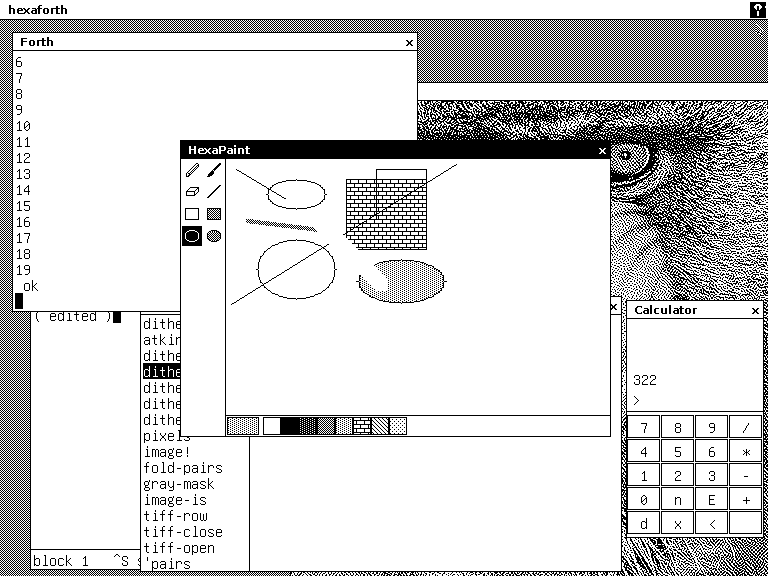
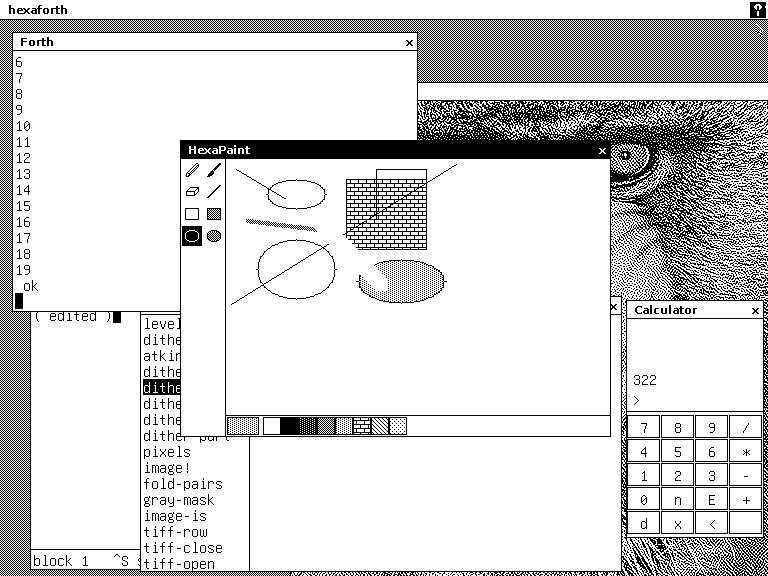
Address review: end-press, no-windows, MAX-WINS, new-port, close on release, ROM_BYTES and agent-check

Changed region(s): [[0.1875, 0.75, 0.2812, 1.0], [0.1875, 0.5625, 0.25, 0.6875]]

diff --git a/test/deskcheck.c b/test/deskcheck.c
@@ -66,6 +66,7 @@ static bool came_up(char* why), saved(char* why), dithered(char* why), moved(cha
 static bool fused_told(char* why), a_number(char* why), word_told(char* why), box_gone(char* why);
 static bool one_cursor(char* why), prints_behind(char* why), keep(char* why), others_same(char* why);
 static bool remember(char* why);
+static bool last_dragged(char* why);
 static bool sees_all(char* why), memory(char* why), menu_down(char* why), line_shown(char* why);
 static bool calc_picked(char* why), words_held(char* why), menu_whole(char* why), menu_away(char* why);
 static bool menu_gone(char* why), forth_closed(char* why), words_reopened(char* why);
@@ -233,9 +234,12 @@ static check CHECKS[] = {
     {"a press off the menu takes it away, and what was under it is painted", "click:forth-40-40 away", "15-away",
      {{"forth", 0, '=', "6"}, {"forth", 1, '=', "7"}, {"forth", 2, '=', "8"}}, menu_away},
     {"and so does a key", "menu backspace away", "15-key", .also = menu_gone},
-    // The x at the right of a window's title bar closes it, and so does ^Q
-    // for the window in front.  In the menu a closed window is plain and an
-    // open one is in bold, and picking a closed one opens it again.
+    // The x at the right of a window's title bar closes it when the button
+    // goes up over it, and so does ^Q for the window in front.  In the menu
+    // a closed window is plain and an open one is in bold, and picking a
+    // closed one opens it again.
+    {"pressing on the x and sliding off does not close the window", "slide:forth away", "15-slide",
+     .also = menu_away},
     {"the x in a window's title bar closes it, leaving the one behind in front", "close:forth away", "15-closed",
      .also = forth_closed},
     {"^Q closes the window in front, and closed windows are plain in the menu", "^q menu away", "15-closed-menu",
@@ -276,6 +280,29 @@ static check CHECKS[] = {
     // to the front, has its names.
     {"there is room for the canvas and the tables of names", "menu pick:words away", "17-names",
      {{"source", 1, '$', " img !"}}, .when = NAMES},
+
+    // A window that goes behind or is closed while the button is down in it
+    // is not to be followed after that.  HexaPaint gives its canvas back
+    // when another window comes in front, so its pencil, held down when ^W
+    // or ^Q takes it from the front and then moved, would draw where the
+    // canvas was: from address 0.  The last window, dragged by its title
+    // when ^Q closes it, would be moved at address 0 when the button is let
+    // go.  The test's machine stops at a store into the kernel (ROM_BYTES,
+    // CMakeLists.txt).
+    {"the pencil held down when ^W brings another window in front, and moved",
+     "menu pick:paint away tool:0 press:10,10,60,40 ^w point:300,300 release away", "18-held-w"},
+    {"the pencil held down when ^Q closes HexaPaint, and moved",
+     "menu pick:paint away tool:0 press:10,10,60,40 ^q point:300,300 release away", "18-held-q"},
+    {"the last window dragged by its title when ^Q closes it, and let go", "", "18-dragged-q",
+     .also = last_dragged},
+    // With every window closed, the Forth window is opened again from the
+    // menu and three windows are made from it, out of its way: nine windows
+    // made, of which four are open, and memory given back when HexaPaint
+    // was closed taken again.  The Forth window, in front again, answers.
+    {"three windows made from the Forth window opened again",
+     "menu pick:forth away ':noname drop ; constant dr  :noname 2drop ; constant ky\r' "
+     "': mk 420 290 80 40 t-words dr ky 0 window drop ; mk mk mk\r' front:forth '1 2 + .\r'", "18-windows",
+     {{"forth", 14, '=', "3  ok"}}},
     {NULL}};
 
 // ---- the machine, and its screen
@@ -818,6 +845,10 @@ static void does(const char* said) {
         } else if (word[0] == '^' && word[1] && !word[2]) {
             desk_key(word + 1, "ctrl");
             if (word[1] == 'q' && open_wins > 0) close_win(in_front());
+            if (word[1] == 'w' && open_wins > 1) to_front(order[0]);
+        } else if (!strncmp(word, "slide:", 6)) {
+            int w = window(of, name);
+            drag(rect[w].x + rect[w].w - 8, rect[w].y + 8, rect[w].x + rect[w].w - 24, rect[w].y + 8);
         } else if (!strncmp(word, "close:", 6)) {
             int w = window(of, name);
             click(rect[w].x + rect[w].w - 8, rect[w].y + 8);
@@ -1529,6 +1560,20 @@ bool desk_begins(const desk* on) {
     canvas = calloc((size_t)cw * ch, 1);
     shaped = calloc((size_t)cw * ch, 1);
     return(true);
+}
+
+// Every window closed but one, which is then held by its title as it is to
+// be dragged, closed with ^Q, and let go.  Which one is left is what the
+// checks before left in front.  The machine is to go on: no window is
+// moved, and nothing is stored where none is.
+static bool last_dragged(char* why) {
+    while (open_wins > 1) does("^q");
+    char said[64];
+    snprintf(said, sizeof said, "grab:%s+40+30 ^q drop away", NAMED[in_front()]);
+    does(said);
+    look("18-dragged-q");
+    snprintf(why, WHY, "%d windows are open", open_wins);
+    return(open_wins == 0);
 }
 
 void desk_does(const char* said) {

diff --git a/DESKTOP.md b/DESKTOP.md
@@ -205,7 +205,7 @@ address of a cell. `hgive ( a cells -- )` gives it back. `hreuse` is
        swap 'q' = if drop  presses @ .  nwin @ .  8000 execute then
        >r  1 presses +!  0 0 136 56 r> win-inval ;
 
-    display-init  0 nwin !
+    display-init  no-windows
     40 60 200 120 t-hello ' hello-draw ' hello-key 0 window drop
     event-loop
     abcq
@@ -215,7 +215,7 @@ and `s,` lays it down with its length in front: that is the title. Numbers
 typed at the prompt are decimal.
 
 It is the only window, so it doesn't need `windows`: `display-init` makes
-the screen's port and switches to it, and `0 nwin !` says there are no
+the screen's port and switches to it, and `no-windows` says there are no
 windows yet. `event-loop` marks the whole screen out of date, and then on
 each pass takes a key if one is waiting and repaints what is out of date.
 The reference VM always reports a key waiting, so there the first key is
